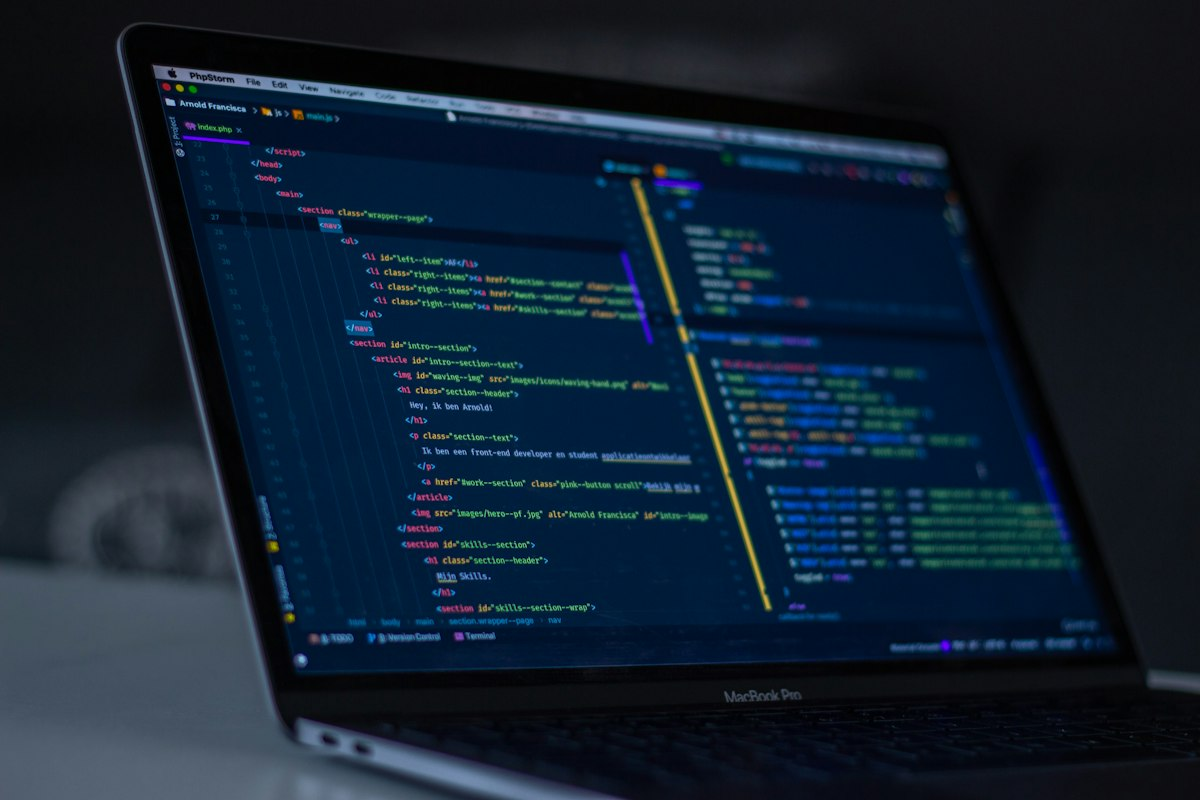
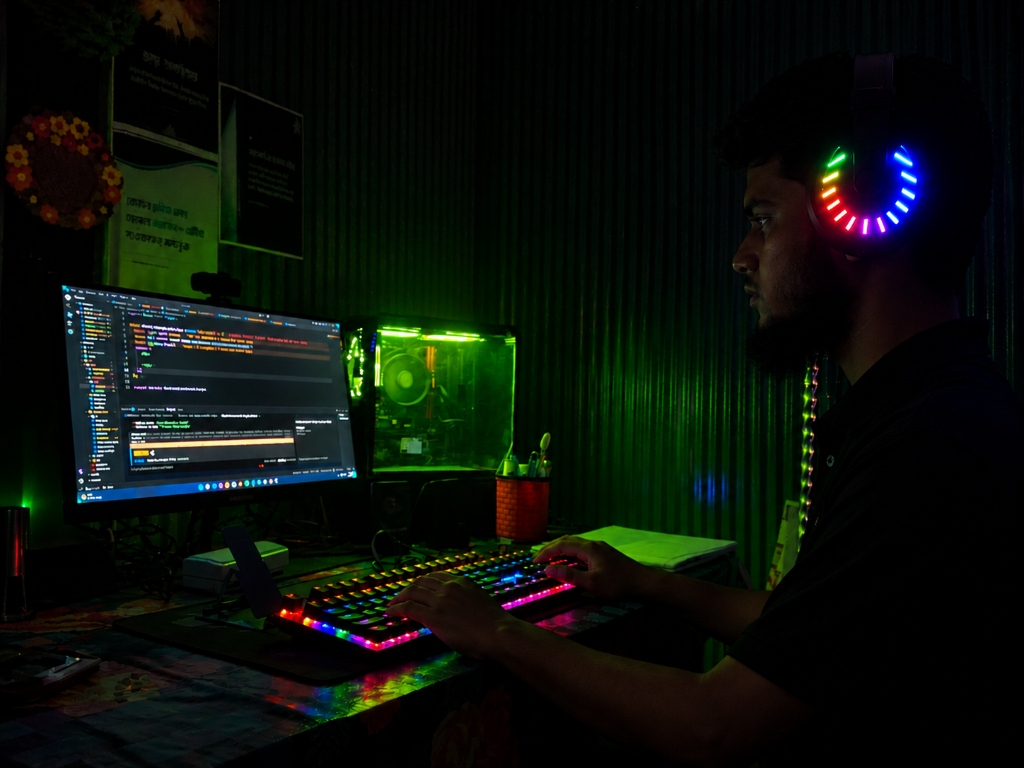
feat: replace workspace card image with user developer desk photo and hide on responsive

diff --git a/src/components/sections/expectations.tsx b/src/components/sections/expectations.tsx
@@ -94,16 +94,9 @@ export function ExpectationsSection({ hideDesktopSlot = false }: ExpectationsSec
           </div>
         </div>
 
-        {/* Right Column: On Desktop, Sticky 3D Card flips into this space! On Mobile, shows standard card */}
-        <div className="lg:col-span-5 flex justify-center">
-          <div className="w-[340px] h-[476px] hidden lg:block" />
-          <div className="lg:hidden w-full max-w-sm rounded-3xl overflow-hidden border border-black/10 dark:border-white/10 shadow-2xl">
-            <img
-              src="/developer-desk.jpg"
-              alt="Developer Workspace"
-              className="w-full h-auto object-cover"
-            />
-          </div>
+        {/* Right Column: Slot reserved on Desktop for the 3D Sticky Flipping Card. Hidden on responsive/mobile */}
+        <div className="hidden lg:flex lg:col-span-5 justify-center">
+          <div className="w-[340px] h-[476px]" />
         </div>
       </div>
     </section>

diff --git a/src/components/sections/scroll-story-wrapper.tsx b/src/components/sections/scroll-story-wrapper.tsx
@@ -93,8 +93,8 @@ export function ScrollStoryWrapper({ siteSettings }: ScrollStoryWrapperProps) {
             >
               <img
                 src={workspaceImage}
-                alt="Developer Desk"
-                className="w-full h-full object-cover"
+                alt="Mehedi Hasan - Developer Workspace"
+                className="w-full h-full object-cover object-[70%_center]"
               />
             </div>
 
